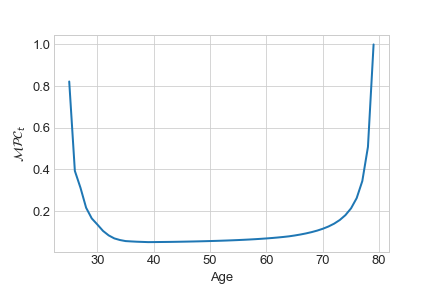
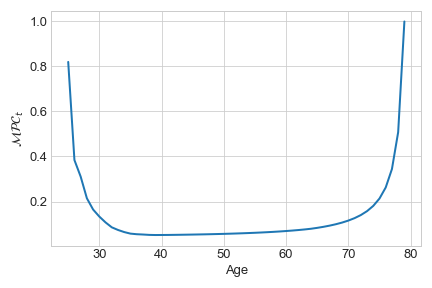
layout stuff

Changed region(s): [[0.0, 0.0312, 0.9931, 1.0]]

diff --git a/one_asset/plots.py b/one_asset/plots.py
@@ -107,7 +107,7 @@ def lifecycle(par, sim,deciles:bool=False):
         ax.grid(True)
         if i in [len(simvarlist)-i-1 for i in range(cols)]:
             ax.set_xlabel('age')
-
+    plt.tight_layout()
     plt.savefig('output/lifecycle_oneasset.png')
     plt.show()
     
@@ -147,6 +147,7 @@ def mpc_over_cash_on_hand(par,sol,sim):
     plt.xlabel('Cash-on-hand, $m_t$',fontsize=15)
     plt.ylabel('$\mathcal{MPC}_t$',fontsize=15)
     plt.legend(fontsize=15)
+    plt.tight_layout()
     plt.savefig('output/mpc_over_wealth_oneasset.png')
     plt.show()
     
@@ -185,5 +186,6 @@ def mpc_over_cash_on_hand_60(par,sol,sim):
     plt.xlabel('Cash-on-hand, $m_t$',fontsize=15)
     plt.ylabel('$\mathcal{MPC}_t$',fontsize=15)
     plt.legend(fontsize=15)
+    plt.tight_layout()
     plt.savefig('output/mpc_over_wealth_oneasset_60s.png')
     plt.show()
